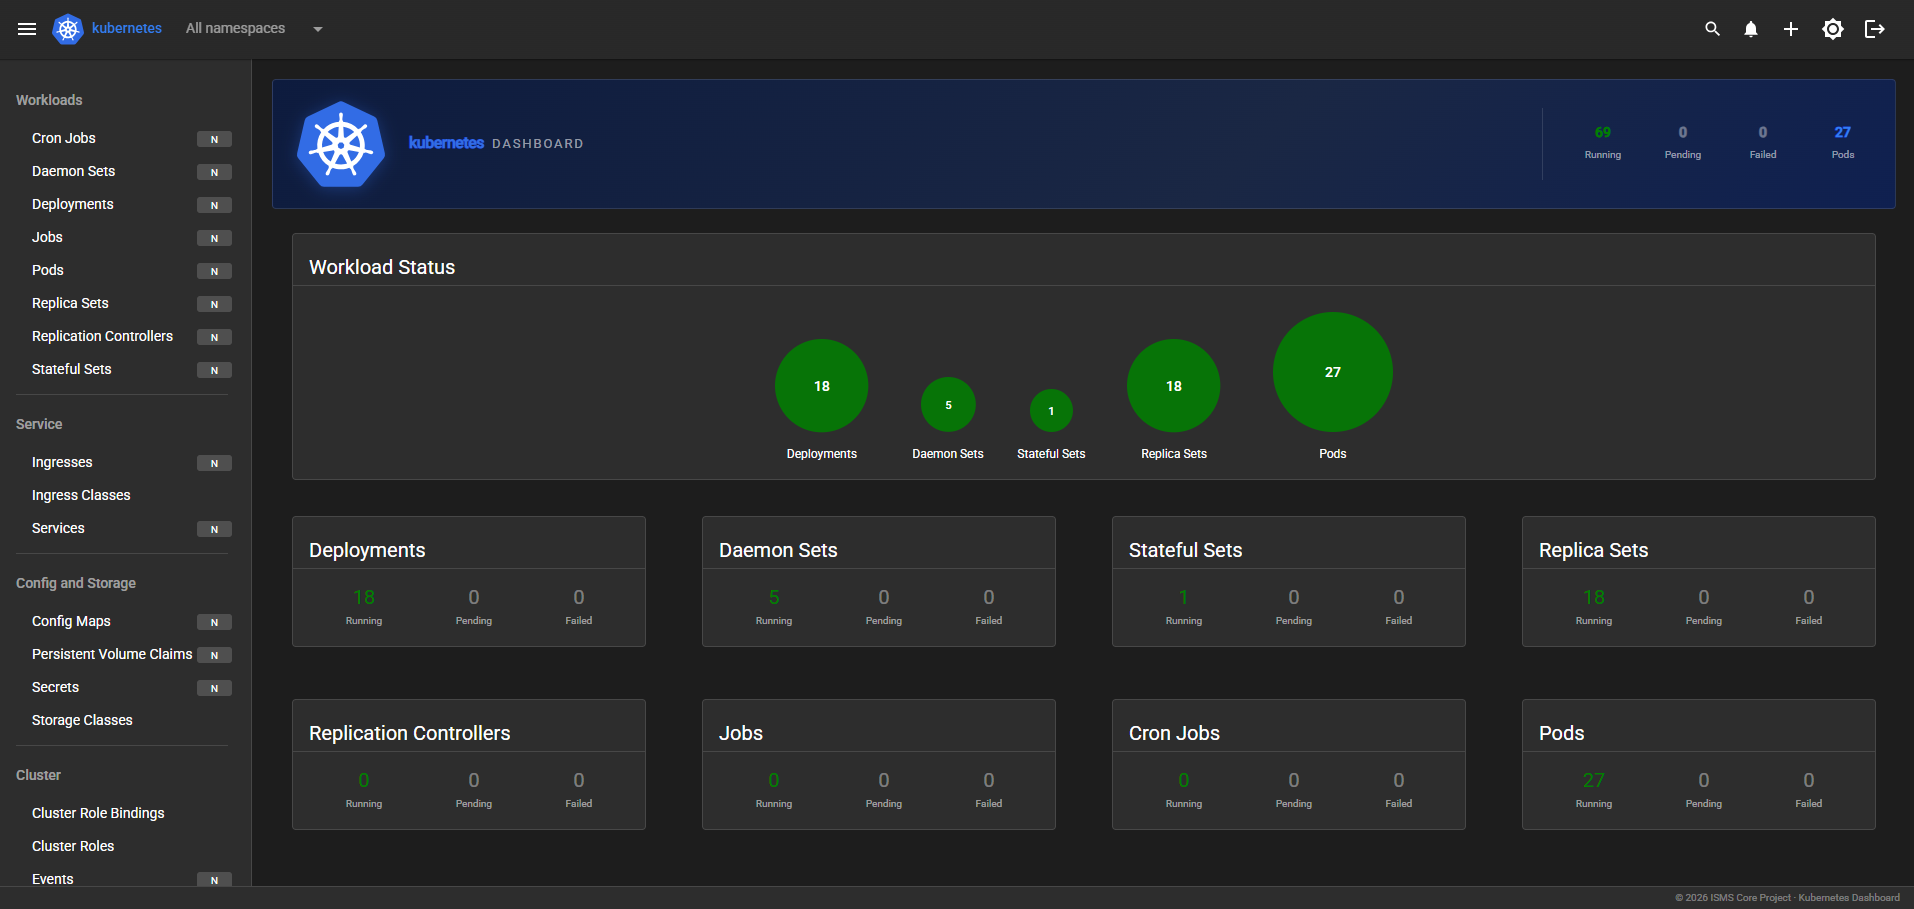
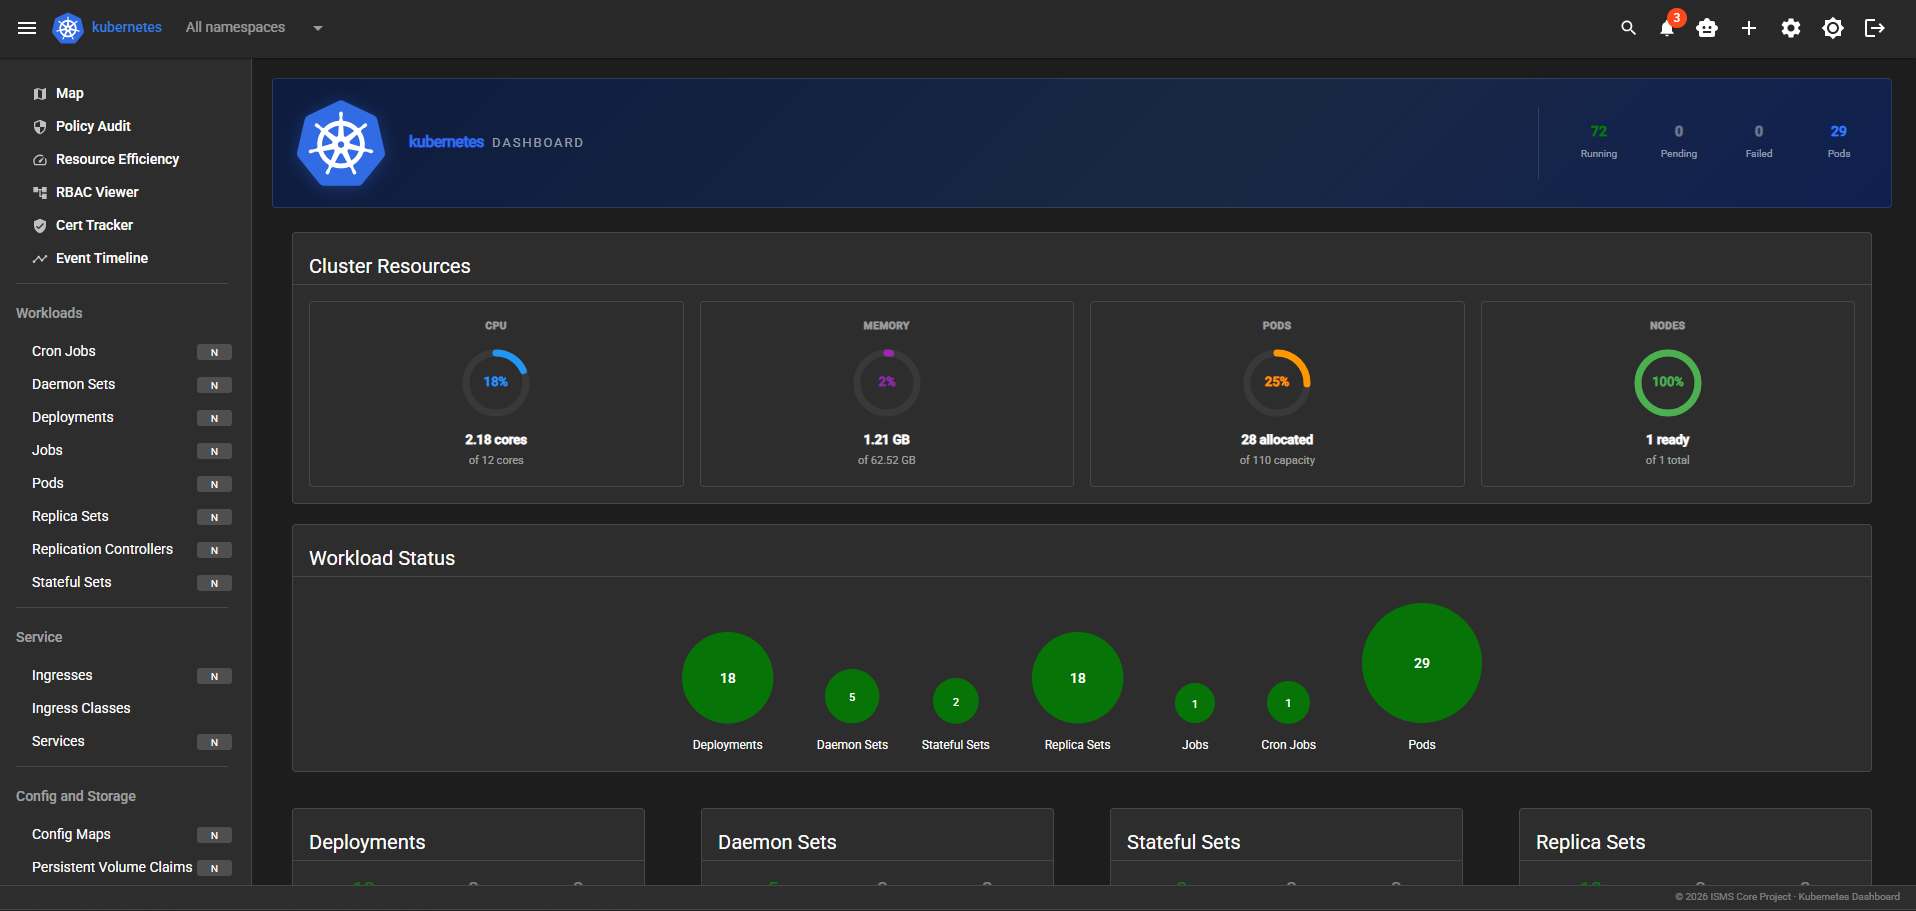
docs: full screenshot gallery + updated manifests
- README: 10 screenshots with captions covering all native features
  (Overview, Map, Pods, Nodes, Policy Audit, Resource Efficiency,
   RBAC Viewer, Cert Tracker, Event Timeline, Sign In)
- Added notifications secret manifest (04-notifications-secret.yaml)
- Updated RBAC, deployments, network policy, and DEPLOY.md to match
  latest factory release (OWASP hardening, graceful shutdown, CA certs)

diff --git a/manifests/DEPLOY.md b/manifests/DEPLOY.md
@@ -23,7 +23,8 @@ Use `20-deployments-hardened.yaml` instead of `20-deployments.yaml`, and apply t
 kubectl apply -f 00-namespace.yaml
 kubectl apply -f 01-secrets.yaml
 kubectl apply -f 02-configmap.yaml
-kubectl apply -f 03-ai-secret.yaml       # Optional — AI assistant (see below)
+kubectl apply -f 03-ai-secret.yaml            # Optional — AI assistant (see below)
+kubectl apply -f 04-notifications-secret.yaml # Optional — email notifications (see below)
 kubectl apply -f 10-rbac.yaml
 kubectl apply -f 20-deployments-hardened.yaml
 kubectl apply -f 50-services.yaml
@@ -63,69 +64,7 @@ All 5 pods (auth, api, web, metrics-scraper, kong) should reach Running.
 
 ## Access
 
-The dashboard is served by the Kong proxy LoadBalancer. Get the assigned IP:
-
-```bash
-kubectl get svc kubernetes-dashboard-kong-proxy -n kubernetes-dashboard
-```
-
-### LoadBalancer Options
-
-See `50-services.yaml` for the full options (A/B/C). The recommended approach for self-hosted clusters is MetalLB.
-
-#### MetalLB Setup (recommended for bare-metal / on-prem)
-
-**1. Install MetalLB (latest release):**
-```bash
-MetalLB_RTAG=$(curl -s https://api.github.com/repos/metallb/metallb/releases/latest \
-  | grep tag_name | cut -d '"' -f 4 | sed 's/v//')
-curl -s https://raw.githubusercontent.com/metallb/metallb/v${MetalLB_RTAG}/config/manifests/metallb-native.yaml \
-  | kubectl apply -f -
-```
-
-**2. Configure an IP pool** (adjust the range and interface to suit your network):
-```bash
-kubectl apply -f - <<EOF
-apiVersion: metallb.io/v1beta1
-kind: IPAddressPool
-metadata:
-  name: production
-  namespace: metallb-system
-spec:
-  addresses:
-    - 192.168.1.200-192.168.1.220
-  autoAssign: true
----
-apiVersion: metallb.io/v1beta1
-kind: L2Advertisement
-metadata:
-  name: l2-advert
-  namespace: metallb-system
-spec:
-  ipAddressPools:
-    - production
-  interfaces:
-    - eth0    # Lock to your LAN interface — check with: ip link show
-EOF
-```
-
-> **Multi-NIC nodes:** If your nodes have both a wired and wireless interface, always lock
-> `interfaces` to the LAN NIC. Otherwise MetalLB advertises on all interfaces and you get
-> unpredictable ARP responses. Common names: `eth0`, `eno1`, `enp2s0` — check with `ip link show`.
-
-**3. Uncomment and set your IP** in `50-services.yaml`:
-```yaml
-annotations:
-  metallb.io/loadBalancerIPs: "192.168.1.200"
-```
-
-#### Cloud LoadBalancer (AWS / GCP / Azure)
-
-No annotation needed — leave the `annotations` block commented out. The cloud provider assigns an IP automatically when `type: LoadBalancer` is applied.
-
-#### NodePort (no LoadBalancer controller)
-
-Change `type: LoadBalancer` to `type: NodePort` in `50-services.yaml`. Access via `http://<any-node-ip>:<nodePort>` — the port is assigned by Kubernetes and visible in `kubectl get svc -n kubernetes-dashboard`.
+Dashboard is at `http://10.0.0.60` — MetalLB assigns the IP to the Kong proxy LoadBalancer.
 
 ## Get Login Token
 
@@ -156,6 +95,40 @@ kubectl rollout restart deployment/kubernetes-dashboard-api -n kubernetes-dashbo
 ```
 
 Model: `claude-sonnet-4-6`. Pod context is automatically injected when the drawer is opened from a pod detail page (`/workloads/pods/:namespace/:name`).
+
+## Health Digest + Event Alert Notifications
+
+Sends cluster health digest emails (daily) and real-time event alerts via the **Microsoft Graph API**.
+All fields are optional — the feature is a graceful no-op if `GRAPH_TENANT_ID` is not set.
+
+**Azure App Registration requirements:**
+- API permission: `Mail.Send` (Application, not Delegated)
+- `MAIL_FROM` must be a licensed mailbox in the tenant
+
+Edit `04-notifications-secret.yaml` with real credentials, then:
+
+```bash
+kubectl apply -f 04-notifications-secret.yaml
+kubectl rollout restart deployment/kubernetes-dashboard-api -n kubernetes-dashboard
+```
+
+The Settings → Notifications tab shows config status and a **Send test email** button.
+Toggle individual event alert types under **Event Alerts** in the same tab.
+
+| Alert type | Default |
+|---|---|
+| Pod Crash / CrashLoopBackOff | ON |
+| OOM Kill | ON |
+| Node Not Ready | ON |
+| Image Pull Failure | OFF |
+| Storage Issue (PVC) | OFF |
+
+Each alert is deduplicated — one email per hour per affected workload.
+
+## Global Settings
+
+Settings → Global tab persists: cluster name, default namespace, items per page, auto-refresh interval.
+Stored in the `kubernetes-dashboard-web-settings` ConfigMap — no pod restart required.
 
 ## Update Images
 

diff --git a/README.md b/README.md
@@ -11,8 +11,50 @@ Production deployment manifests for the Kubernetes Dashboard — a maintained co
 ### Sign In
 ![Sign in screen](screenshots/k8s_dashboard_logon.png)
 
-### Workload Overview
-![Dashboard home](screenshots/k8s_dashboard_home.png)
+### Overview
+Cluster resource donuts (CPU / Memory / Pods / Nodes) plus workload status bubbles and per-kind counts at a glance.
+
+![Dashboard overview](screenshots/k8s_dashboard_home.png)
+
+### Cluster Map
+Namespace-scoped topology view of every Deployment, DaemonSet, and StatefulSet — with Error/Warning filter and zoom controls.
+
+![Cluster map](screenshots/k8s_dashboard_map.png)
+
+### Pods
+Full pod list with live CPU/Memory sparklines, restart count, node assignment, and inline log/shell/edit/delete actions.
+
+![Pods list](screenshots/k8s_dashboard_pods.png)
+
+### Nodes
+Per-node CPU and memory request percentages, usage sparklines, pod capacity, and readiness status.
+
+![Nodes list](screenshots/k8s_dashboard_nodes.png)
+
+### Policy Audit
+Polaris-native security scoring (0–100) per workload — danger and warning counts, namespace tabs, expandable check details.
+
+![Policy audit](screenshots/k8s_dashboard_policy_audit.png)
+
+### Resource Efficiency
+Goldilocks-style request/limit/actual comparison for every container — No Limits, Hot, Cold, and OK verdicts with CSV export.
+
+![Resource efficiency](screenshots/k8s_dashboard_resource_efficiency.png)
+
+### RBAC Viewer
+Cluster-wide role binding table — subject, kind, scope, binding, and rule expansion with wildcard detection.
+
+![RBAC viewer](screenshots/k8s_dashboard_rbac_viewer.png)
+
+### Certificate Tracker
+TLS secrets scanned via `crypto/x509` — common name, SANs, issuer, expiry date, days remaining, and status badges.
+
+![Certificate tracker](screenshots/k8s_dashboard_cert_tracker.png)
+
+### Event Timeline
+Live cluster event feed with time-bucket grouping, Warning highlighting, namespace filter, and auto-refresh.
+
+![Event timeline](screenshots/k8s_dashboard_events_timeline.png)
 
 ---
 
@@ -80,6 +122,7 @@ kubectl get secret admin-user -n kubernetes-dashboard \
 - Pod log streaming and interactive shell (xterm.js)
 - Cluster Map, Policy Audit, Resource Efficiency, RBAC Viewer, Certificate Tracker, Event Timeline
 - AI Assistant (Claude, SSE streaming — requires Anthropic API key)
+- Health digest and event alert notifications via Microsoft Graph API
 
 ---
 